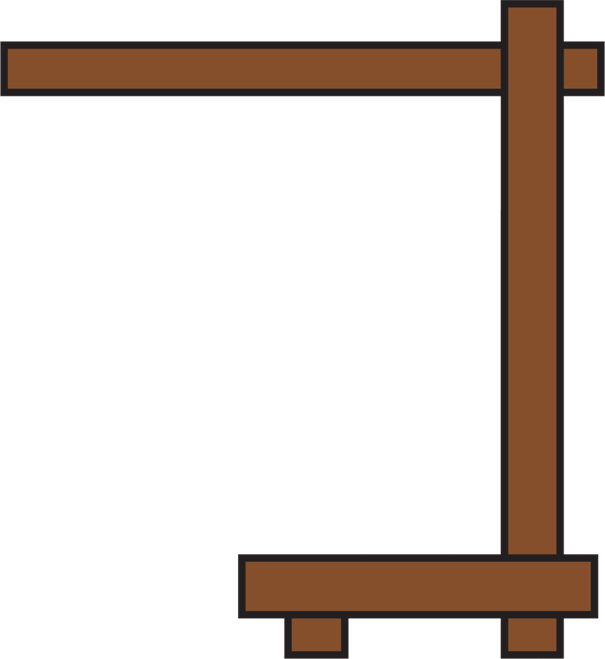
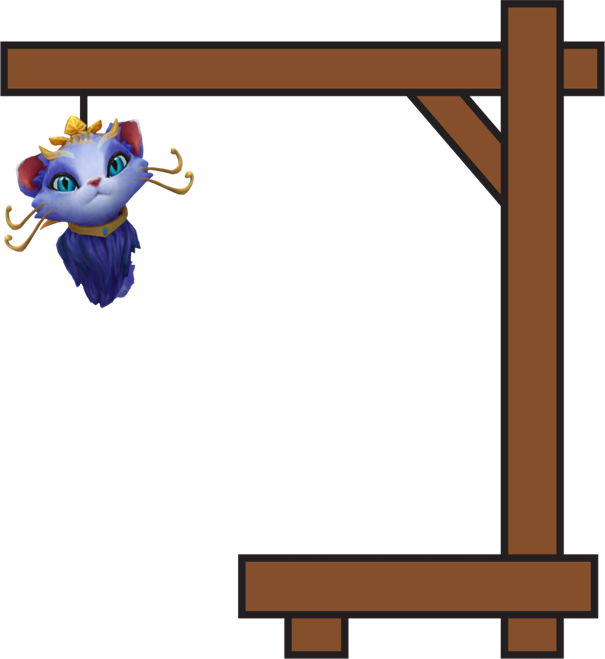
hangman fonctionnel

Changed region(s): [[0.0, 0.1517, 0.3273, 0.4856], [0.6843, 0.1214, 0.8331, 0.3035]]

diff --git a/templates/level1.html b/templates/level1.html
@@ -8,20 +8,31 @@
         <link href="https://fonts.cdnfonts.com/css/friz-quadrata-std" rel="stylesheet">
         <link rel="stylesheet" href="/static/css/level1.css">
     </head>
-    <header>
-        <div class="info">
-            <p>{{.Hiddenword}}</p>
-            <p>{{.Listletter}}</p>
-            <p>{{.Leftpv}}</p>
-            <p>{{.MesUser}}</p>
-        </div>
-    </header>
     <body>
-        <h1>Page game</h1>
-        <form action="/game/treatment" method="post">
-            <input type="text" name="value" placeholder="indiquer une letter" required>
-            <button>Valider</button>
-        </form>
+        <div class="main-container">
+            <h1>Page game</h1>
+            <div class="info">
+                <div class="guess-word">
+                {{range .Hiddenword}}
+                {{.}}
+                {{end}}
+            </div>
+            <div class="display-letters">
+                Lettres utilisées : {{range .Listletter}}
+                {{.}}
+                {{end}}
+            </div>
+                <p>Vies restantes : {{.Leftpv}}</p>
+                <div class="state">
+                    <p>{{.MesUser}}</p>   
+                </div> 
+            <form action="/game/treatment" method="post">
+                <input type="text" name="value" placeholder="Indiquez une lettre" required>
+                <button>Valider</button>
+            </form>
+        <div class="image">
+            <img src="/static/image/level1/yuumi{{.Leftpv}}.png" alt="">
+        </div>
     </body>     
 </html>
 {{end}}

diff --git a/templates/username.html b/templates/username.html
@@ -14,17 +14,20 @@
             <form action="/init/treatment" id="pseudoForm" method="post">
                 <label for="pseudo">Pseudo :</label>
                 <input type="text" id="pseudo" name="pseudo" required>
-               
-                <label for="lvl1">Easy</label>
-                <input type="radio" name="lvl" id="lvl1" value="1">
-
-                <label for="lvl2">Medium</label>
-                <input type="radio" name="lvl" id="lvl2" value="2">
-
-                <label for="lvl3">Hard</label>
-                <input type="radio" name="lvl" id="lvl3" value="3">
+               <div class="lower-container">    
+                <h2>Choisissez votre niveau :</h2>
+                 <div class="level-choice">
+                    <label for="lvl1">Easy</label>
+                    <input type="radio" name="lvl" id="lvl1" value="1">
+                    <label for="lvl2">Medium</label>
+                    <input type="radio" name="lvl" id="lvl2" value="2">
+                    <label for="lvl3">Hard</label>
+                    <input type="radio" name="lvl" id="lvl3" value="3">
+                </div>
+                   
 
                 <button type="submit">Valider</button>
+            </div>
             </form>           
         </div>         
     </body>     

diff --git a/asset/css/level1.css b/asset/css/level1.css
@@ -1,6 +1,6 @@
 body {
     display: flex;
-    font-family: 'Friz Quadrata Std', sans-serif;                                             
+    font-family: 'Friz Quadrata Std', sans-serif;
     background: url(/static/image/WallpaperDark.20d3d6f6\ \(1\).jpg) no-repeat 50% fixed;
     background-size: cover;
     background-color: #000;
@@ -8,12 +8,51 @@ body {
     height: 97vh;
     color: #d9d9d9;
     margin: 8px;
+    flex-direction: column;
+    align-items: center;
+    justify-content: center;
+}
+.guess-word {
+    padding-bottom: 5%;
+}
+.display-letters {
+    padding-bottom: 2%;
 }
 
 .info {
-    max-width: 100%;
+    display: flex;
+    flex-direction: column;
+    justify-content: center;
+    align-items: center;
+    width: 120%;
     border: solid yellow 2px;
     background-color: #1f1f1f;
     border-radius: 10px;
     padding: 10px 20px; 
+    margin-bottom: 10%;
+}
+
+
+.main-container {
+    display: flex;
+    flex-direction: column;
+    align-items: center;
+    
+}
+.state {
+    margin-bottom: 5%;
+}
+
+.image {
+    padding-top: 20px;
+    display: flex;
+    justify-content: center;
+    align-items: center;
+    width: 100%;
+    height: 50%;
+}
+
+img {
+    width: 35%;
+    height: 100%;
 }

diff --git a/templates/debut.html b/templates/debut.html
@@ -19,6 +19,7 @@
                 <div class="upper-text">         
                     La règle est simple : trouvez le mot pour gagner la partie        
                 </div>
+                <h2>Choisissez votre niveau</h2>
                 <div class="level-container">
                     <div class="level1">
                         <h2>Level 1</h2>
@@ -28,7 +29,7 @@
                             <li>No malus</li>
                         </ul>
                         <div class="button">
-                            <a href="http://localhost:8080/level1">Jouer</a>
+                            <a href="http://localhost:6969/level1">Jouer</a>
                         </div>
                     </div>
                     <div class="level2">
@@ -39,7 +40,7 @@
                             <li>No malus</li>
                         </ul>
                         <div class="button">
-                            <a href="http://localhost:8080/level2">Jouer</a>
+                            <a href="http://localhost:6969/level2">Jouer</a>
                         </div>
                     </div>
                     <div class="level3">

diff --git a/templates/intro.html b/templates/intro.html
@@ -15,13 +15,13 @@
                 Lorem ipsum, dolor sit amet consectetur adipisicing elit. In commodi excepturi hic, inventore tenetur ad fuga reiciendis corporis aperiam recusandae soluta illo natus ab voluptate illum itaque. Incidunt, debitis assumenda?            
             </div>
             <div class="button">
-                <a id="suivant" href="http://localhost:8080/init">Suivant</a>
+                <a id="suivant" href="http://localhost:6969/init">Suivant</a>
             </div>
         </div> 
     </body>
     <footer>
         <div class="whatsapp-img-container">
-            <a id="whatsapp" href="http://localhost:8080/whatsapp"><img src="/static/image/whatsapp.png" alt=""></a>
+            <a id="whatsapp" href="http://localhost:6969/whatsapp"><img src="/static/image/whatsapp.png" alt=""></a>
         </div>
     </footer>    
 </html>

diff --git a/templates/whatsapp.html b/templates/whatsapp.html
@@ -12,7 +12,7 @@
         <h1>YOU GOT WHATSAPPED!!!!</h1>
         <embed src="/static/music/whatsapp.mp3" width="180" height="90" loop="true" autostart="true" hidden="true" />
             <div class="button">
-                <a href="http://localhost:8080/intro">Retour</a>
+                <a href="http://localhost:6969/intro">Retour</a>
             </div>
     </body>
 </html>

diff --git a/asset/css/username.css b/asset/css/username.css
@@ -34,3 +34,14 @@ body {
 h1 {
     margin-top: 1%;
 }
+
+.lower-container {
+    display: flex;
+    flex-direction: center;
+    align-items: center;
+    flex-direction: column;
+}
+
+button {
+    margin-top: 10px;
+}

diff --git a/asset/css/intro.css b/asset/css/intro.css
@@ -26,7 +26,7 @@ body {
 }
 
 .button {
-    margin-top: 10%;
+    margin-top: 5%;
 }
 
 a#suivant {

diff --git a/main.go b/main.go
@@ -32,16 +32,26 @@ func main() {
 	}
 
 	http.HandleFunc("/intro", func(w http.ResponseWriter, r *http.Request) {
+		fmt.Println(hangman.Player.IsGame)
+		if hangman.Player.IsGame {
+			http.Redirect(w, r, "/game", 301)
+		}
 		temp.ExecuteTemplate(w, "intro", nil)
 	})
 
 	http.HandleFunc("/whatsapp", func(w http.ResponseWriter, r *http.Request) {
+		if hangman.Player.IsGame {
+			http.Redirect(w, r, "/game", 301)
+		}
 		temp.ExecuteTemplate(w, "whatsapp", nil)
 	})
 
 	http.HandleFunc("/init", func(w http.ResponseWriter, r *http.Request) {
+		fmt.Println("okokok", hangman.Player.IsGame)
+		if hangman.Player.IsGame {
+			http.Redirect(w, r, "/game", 301)
+		}
 		temp.ExecuteTemplate(w, "username", nil)
-
 	})
 
 	http.HandleFunc("/init/treatment", func(w http.ResponseWriter, r *http.Request) {
@@ -57,8 +67,14 @@ func main() {
 		MesUser    string
 	}
 	http.HandleFunc("/game", func(w http.ResponseWriter, r *http.Request) {
+		if !hangman.Player.IsGame {
+			http.Redirect(w, r, "/intro", 301)
+		}
 		data := PageGame{hangman.Player.FoundLetters, hangman.Player.UsedLetters, hangman.Player.TurnsLeft, MesUser}
-		if hangman.HasWon(hangman.Player.FoundLetters, hangman.Player.Word) || hangman.Player.TurnsLeft <= 0 {
+		test01 := hangman.HasWon(hangman.Player.FoundLetters, hangman.Player.Word)
+		fmt.Println(test01)
+		if test01 || hangman.Player.TurnsLeft <= 0 {
+			hangman.Player.IsGame = false
 			http.Redirect(w, r, "/end", 301)
 
 		}
@@ -72,6 +88,9 @@ func main() {
 	})
 
 	http.HandleFunc("/end", func(w http.ResponseWriter, r *http.Request) {
+		if hangman.Player.IsGame {
+			http.Redirect(w, r, "/game", 301)
+		}
 		w.Write([]byte("end"))
 	})
 
@@ -79,5 +98,5 @@ func main() {
 	fileserver := http.FileServer(http.Dir(rootDoc + "/asset"))
 	http.Handle("/static/", http.StripPrefix("/static/", fileserver))
 	//Init serv
-	http.ListenAndServe("localhost:8080", nil)
+	http.ListenAndServe("localhost:6969", nil)
 }

diff --git a/hangman/hangman.go b/hangman/hangman.go
@@ -10,12 +10,12 @@ import (
 )
 
 type Game struct {
-	State        bool
 	Letters      []string // nul
 	FoundLetters []string
 	UsedLetters  []string
 	Word         string
 	TurnsLeft    int
+	IsGame       bool
 }
 
 var Player Game
@@ -32,7 +32,7 @@ func New(turns int, word string) (*Game, error) {
 	}
 
 	g := &Game{
-		State:        true,
+		IsGame:       true,
 		Letters:      letters,
 		FoundLetters: found,
 		UsedLetters:  []string{},
@@ -146,7 +146,7 @@ func Start(level string) {
 		os.Exit(1)
 	}
 
-	g, err := New(11, PickWord())
+	g, err := New(10, PickWord())
 	if err != nil {
 		fmt.Printf("Could not create game: %v\n", err)
 		os.Exit(1)
@@ -162,16 +162,16 @@ func (g *Game) CheckInput(value string) string {
 			for index := range g.Word {
 				g.FoundLetters[index] = string(g.Word[index])
 			}
-			return "vous avez trouver le mot"
+			return "Vous avez trouvé le mot"
 		} else {
 			g.TurnsLeft -= 2
-			return "vous avez perdu deux vies"
+			return "Vous avez perdu deux vies"
 		}
 	} else {
 
 		for _, letter := range g.UsedLetters {
 			if letter == value {
-				return "vous avez deja indiquer cette lettre"
+				return "Vous avez deja indiqué cette lettre"
 			}
 		}
 		g.UsedLetters = append(g.UsedLetters, value)
@@ -184,8 +184,8 @@ func (g *Game) CheckInput(value string) string {
 		}
 		if !IsFind {
 			g.TurnsLeft -= 1
-			return "vous avez perdu une vie"
+			return "Vous avez perdu une vie"
 		}
-		return "vous avez trouver la lettre"
+		return "Vous avez trouvé la lettre"
 	}
 }
